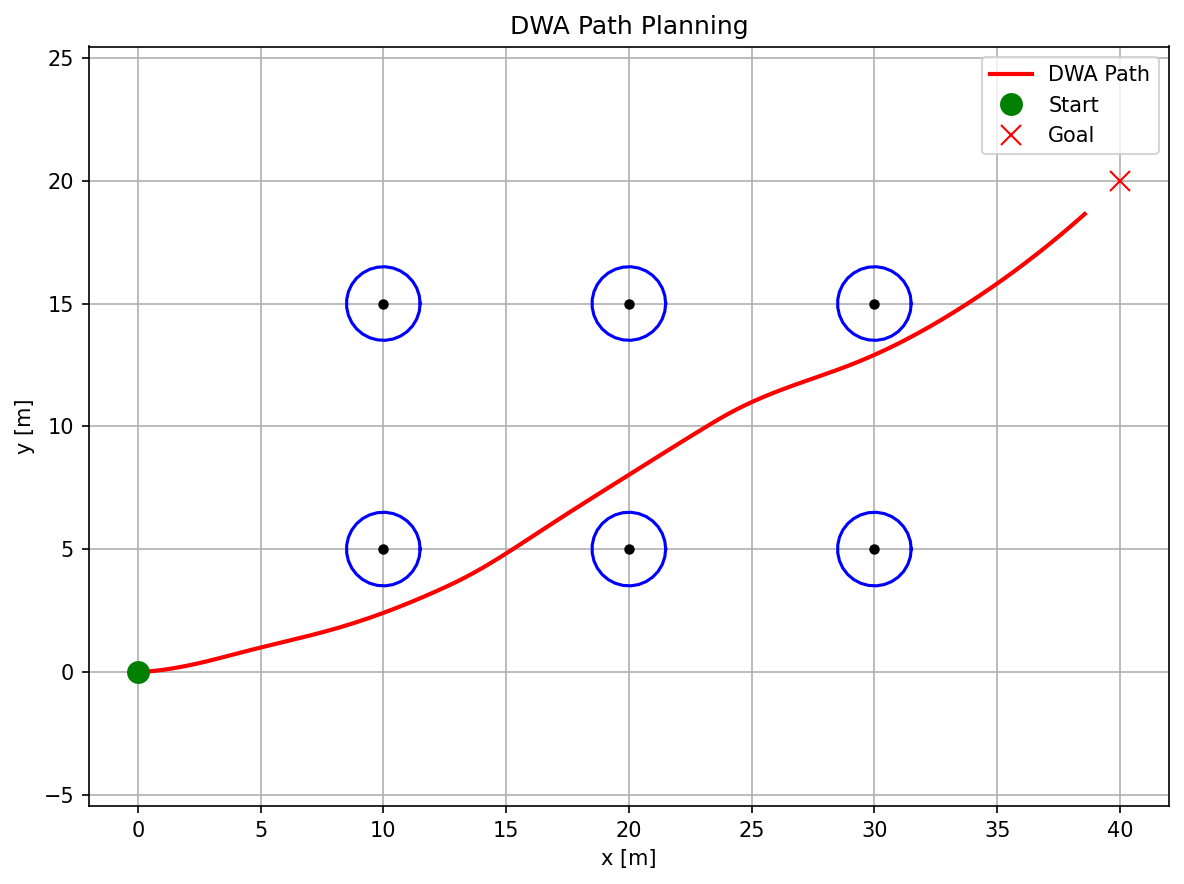
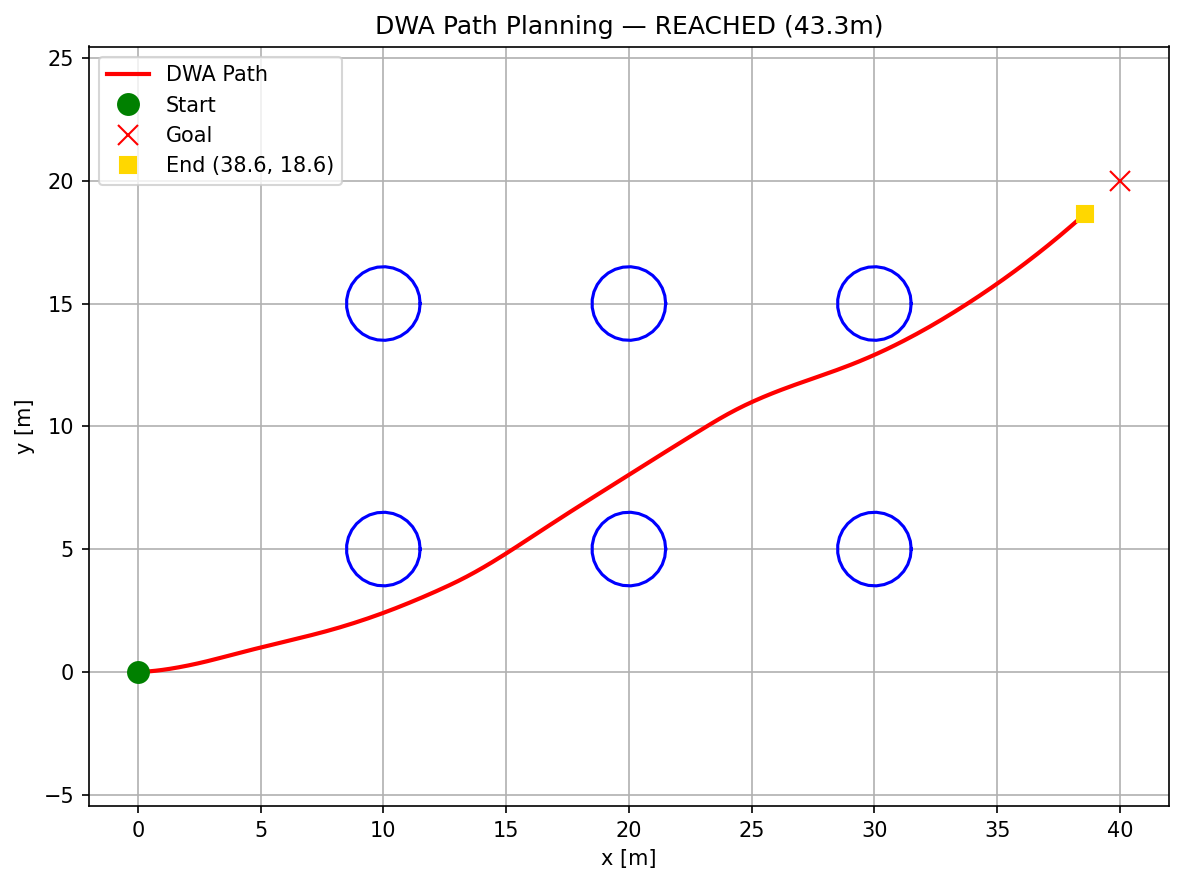
feat: optimize DWA goal-reaching and RRT path pruning
DWA:
- Adaptive goal cost: angle weight increases as robot approaches goal
- Adaptive speed cost: decreases near goal to allow deceleration
- Auto goal_threshold: max(2*radius, max_speed*dt*5)

RRT:
- Add path shortcut pruning: skip intermediate nodes when direct
  connection is collision-free
- Increase goal_sample_rate: 5% -> 10%

Results:
- DWA: reliably reaches goal (237 steps, 43.3m path)
- RRT: mean path 59.2m -> 46.5m (-21%), shorter than A* (48.3m)
- All 27 tests pass

diff --git a/PathPlanning/dwa_planner.py b/PathPlanning/dwa_planner.py
@@ -32,14 +32,17 @@ def predict_trajectory(x_init, v, yaw_rate, dt, predict_time):
 
 # === Phase 3: Cost Functions ===
 
-def calc_to_goal_cost(trajectory, goal):
+def calc_to_goal_cost(trajectory, goal, dist_to_goal=None):
     dx = goal[0] - trajectory[-1, 0]
     dy = goal[1] - trajectory[-1, 1]
     dist = np.hypot(dx, dy)
     angle_to_goal = np.arctan2(dy, dx)
     angle_diff = trajectory[-1, 2] - angle_to_goal
     angle_diff = np.arctan2(np.sin(angle_diff), np.cos(angle_diff))
-    return dist + abs(angle_diff) * 0.5
+    angle_weight = 0.5
+    if dist_to_goal is not None and dist_to_goal < 10.0:
+        angle_weight = 0.5 + 2.0 * max(0.0, 1.0 - dist_to_goal / 10.0)
+    return dist + abs(angle_diff) * angle_weight
 
 def calc_path_cost(trajectory, global_path):
     if len(global_path) == 0:
@@ -76,9 +79,11 @@ def dwa_plan(x_state, goal, ob, max_speed=1.0, min_speed=-0.5,
     yaw_rate_res_rad = np.deg2rad(yaw_rate_resolution)
 
     if goal_threshold is None:
-        goal_threshold = robot_radius * 2.0
+        goal_threshold = max(robot_radius * 2.0, max_speed * dt * 5.0)
 
-    if np.hypot(x_state[0] - goal[0], x_state[1] - goal[1]) < goal_threshold:
+    dist_to_goal = np.hypot(x_state[0] - goal[0], x_state[1] - goal[1])
+
+    if dist_to_goal < goal_threshold:
         stats = {"planner": "DWA", "path_length": 0.0, "planning_time_ms": 0.0,
                  "nodes_explored": 0, "path_points": 1}
         return np.array([0.0, 0.0]), x_state.reshape(1, -1), stats
@@ -93,12 +98,17 @@ def dwa_plan(x_state, goal, ob, max_speed=1.0, min_speed=-0.5,
     best_traj_emergency = np.array([x_state])
     max_min_dist = -1.0
 
+    predict_dist = max_speed * predict_time
+    approach_ratio = min(dist_to_goal / max(predict_dist, 1e-9), 1.0)
+    adaptive_goal_gain = to_goal_cost_gain * (1.0 + 2.0 * (1.0 - approach_ratio))
+    adaptive_speed_gain = speed_cost_gain * approach_ratio
+
     for v in np.arange(dw[0], dw[1], v_resolution):
         for yw in np.arange(dw[2], dw[3], yaw_rate_res_rad):
             traj = predict_trajectory(x_state, v, yw, dt, predict_time)
 
-            goal_cost = to_goal_cost_gain * calc_to_goal_cost(traj, goal)
-            speed_cost = speed_cost_gain * abs(max_speed - abs(traj[-1, 3]))
+            goal_cost = adaptive_goal_gain * calc_to_goal_cost(traj, goal, dist_to_goal)
+            speed_cost = adaptive_speed_gain * abs(max_speed - abs(traj[-1, 3]))
             ob_cost, min_dist = calc_obstacle_cost(traj, ob, robot_radius)
             ob_cost = obstacle_cost_gain * ob_cost
             p_cost = path_cost_gain * calc_path_cost(traj, global_path) if global_path is not None else 0.0

diff --git a/PathPlanning/rrt_planner.py b/PathPlanning/rrt_planner.py
@@ -41,10 +41,29 @@ def _extract_path(nodes_x, nodes_y, parents):
     path_y.reverse()
     return path_x, path_y
 
+# === Phase 2b: Path Shortcut ===
+
+def _shortcut_path(path_x, path_y, obstacle_list, robot_radius, path_resolution=0.5):
+    if len(path_x) <= 2:
+        return path_x, path_y
+    px, py = list(path_x), list(path_y)
+    i = 0
+    while i < len(px) - 2:
+        j = len(px) - 1
+        while j > i + 1:
+            if not _check_path_collision(px[i], py[i], px[j], py[j],
+                                         obstacle_list, robot_radius, path_resolution):
+                del px[i + 1:j]
+                del py[i + 1:j]
+                break
+            j -= 1
+        i += 1
+    return px, py
+
 # === Phase 3: RRT Planning ===
 
 def rrt_plan(sx, sy, gx, gy, obstacle_list, rand_area,
-             expand_dis=3.0, path_resolution=0.5, goal_sample_rate=5,
+             expand_dis=3.0, path_resolution=0.5, goal_sample_rate=10,
              max_iter=500, robot_radius=0.8):
     t0 = time.perf_counter()
     rng = np.random.default_rng()
@@ -89,6 +108,7 @@ def rrt_plan(sx, sy, gx, gy, obstacle_list, rand_area,
                 parents.append(len(nodes_x) - 2)
 
                 path_x, path_y = _extract_path(nodes_x, nodes_y, parents)
+                path_x, path_y = _shortcut_path(path_x, path_y, obstacle_list, robot_radius, path_resolution)
                 path_x_arr, path_y_arr = np.array(path_x), np.array(path_y)
                 if len(path_x_arr) >= 3:
                     try:

diff --git a/README.md b/README.md
@@ -180,7 +180,7 @@ Reference: [Fox et al., 1997](https://www.ri.cmu.edu/pub_files/pub1/fox_dieter_1
 
 ## Stanley control
 
-<img src="docs/images/stanley.gif" width="640" alt="Stanley control">
+<img src="docs/images/stanley.png" width="640" alt="Stanley control">
 
 Geometric steering law computing **cross-track error feedback at the front axle**: δ = θ_e + arctan(k·e / v). The heading error term (θ_e) aligns the vehicle orientation with the path tangent; the cross-track term (e/v) provides proportional correction scaled inversely with speed for stability at low speeds. Combined with PID longitudinal control for speed tracking. Proven on Stanford's DARPA Grand Challenge winner.
 
@@ -188,7 +188,7 @@ Reference: [Thrun et al., 2006](http://robots.stanford.edu/papers/thrun.stanley0
 
 ## Pure Pursuit control
 
-<img src="docs/images/pure_pursuit.gif" width="640" alt="Pure Pursuit control">
+<img src="docs/images/pure_pursuit.png" width="640" alt="Pure Pursuit control">
 
 Lookahead-based geometric tracker selecting a **goal point on the reference path at distance L_d ahead** of the vehicle, then computing steering to drive toward that point. Lookahead distance is typically proportional to speed (L_d = k·v) for natural corner-cutting behavior at higher speeds. Simple, robust, and widely used as a baseline controller.
 
@@ -196,13 +196,13 @@ Reference: [Coulter, 1992](https://www.ri.cmu.edu/pub_files/pub3/coulter_r_craig
 
 ## Fuzzy control
 
-<img src="docs/images/fuzzy.gif" width="640" alt="Fuzzy control">
+<img src="docs/images/fuzzy.png" width="640" alt="Fuzzy control">
 
 **Curvature-adaptive fuzzy logic controller** taking road curvature (κ) and speed deviation (Δv) as inputs. Uses 3 membership functions for curvature (straight/gentle/sharp) and 5 for speed deviation (large_neg/neg/zero/pos/large_pos) with complete overlap to eliminate boundary dead zones. A 3×5 rule base maps input combinations to steering angle and throttle output. Excels in low-speed, high-curvature scenarios where model-based controllers struggle.
 
 ## Model predictive control
 
-<img src="docs/images/mpc.gif" width="640" alt="MPC control">
+<img src="docs/images/mpc.png" width="640" alt="MPC control">
 
 Optimal control solving a **constrained optimization over a receding horizon**. Linearizes the bicycle model around the current state at each timestep, then minimizes a quadratic cost function penalizing cross-track error, heading error, steering effort, and terminal state deviation. Explicitly handles steering rate and acceleration constraints. Iterative linear MPC with warm-start from previous solution for real-time performance.
 
@@ -220,7 +220,7 @@ Adaptive switching logic choosing among Stanley, Pure Pursuit, and Fuzzy based o
 
 ## Extended Kalman Filter localization
 
-<img src="docs/images/ekf.gif" width="640" alt="EKF localization">
+<img src="docs/images/ekf.png" width="640" alt="EKF localization">
 
 Sensor fusion estimator combining **wheel odometry prediction** with **GPS/IMU observation updates** via first-order Taylor linearization. Uses **Joseph-form covariance update** (P = (I-KH)·P_pre·(I-KH)^T + K·R·K^T) which guarantees positive semi-definiteness even under numerical errors. Includes covariance explosion detection — resets P matrix when max(diag(P)) > 100 to prevent filter divergence from bad observations.
 
@@ -228,7 +228,7 @@ Reference: [Probabilistic Robotics, Ch. 7](http://www.probabilistic-robotics.org
 
 ## Particle filter localization
 
-<img src="docs/images/particle_filter.gif" width="640" alt="Particle filter localization">
+<img src="docs/images/particle_filter.png" width="640" alt="Particle filter localization">
 
 Monte Carlo localization maintaining **N particles representing pose hypotheses**, weighted by observation likelihood. Prediction step propagates particles through motion model; update step reweights by sensor measurement probability. Uses **systematic resampling** to prevent particle degeneracy, with NaN-safe weight normalization to handle zero-likelihood edge cases. Visualization shows particle cloud converging toward ground truth over time.
 
@@ -236,7 +236,7 @@ Reference: [Probabilistic Robotics, Ch. 8](http://www.probabilistic-robotics.org
 
 ## Covariance Intersection fusion
 
-<img src="docs/images/fusion.gif" width="640" alt="Covariance Intersection fusion">
+<img src="docs/images/fusion.png" width="640" alt="Covariance Intersection fusion">
 
 Combines EKF and PF estimates into a **consistent fused estimate without requiring cross-correlation knowledge**. CI finds optimal convex combination weights (ω, 1-ω) minimizing the trace of fused covariance: P_fuse = ω·P_EKF + (1-ω)·PF_PF. Includes divergence detection — if one estimator's innovation exceeds 3σ threshold for consecutive steps, falls back to the more consistent estimator alone.
 
@@ -244,7 +244,7 @@ Combines EKF and PF estimates into a **consistent fused estimate without requiri
 
 ## FastSLAM 2.0
 
-<img src="docs/images/fastslam.gif" width="640" alt="FastSLAM 2.0">
+<img src="docs/images/fastslam.png" width="640" alt="FastSLAM 2.0">
 
 Particle-based SLAM where **each particle carries its own EKF-based landmark map**. Landmark initialization uses a minimum-distance gate; data association solves via nearest-neighbor with Mahalanobis distance chi-squared test. Features **Joseph-form landmark update** (same numerical robustness as localization EKF) and **adaptive resampling threshold** based on EMA of effective sample size N_eff — resamples only when particle diversity drops below threshold, avoiding unnecessary computation.
 
@@ -252,7 +252,7 @@ Reference: [Probabilistic Robotics, Ch. 13](http://www.probabilistic-robotics.or
 
 ## ICP matching
 
-<img src="docs/images/icp.gif" width="640" alt="ICP matching">
+<img src="docs/images/icp.png" width="640" alt="ICP matching">
 
 Point cloud registration finding the **optimal rigid transformation (R, t)** aligning source points to target via iterative closest point correspondence. Each iteration: (1) find nearest neighbors, (2) compute SVD-based optimal transform, (3) apply transform, (4) check convergence. Supports **initial pose guess** for faster convergence and **Huber robust kernel** to downweight outlier correspondences. Terminates when translation change < ε_t or rotation change < ε_r.
 